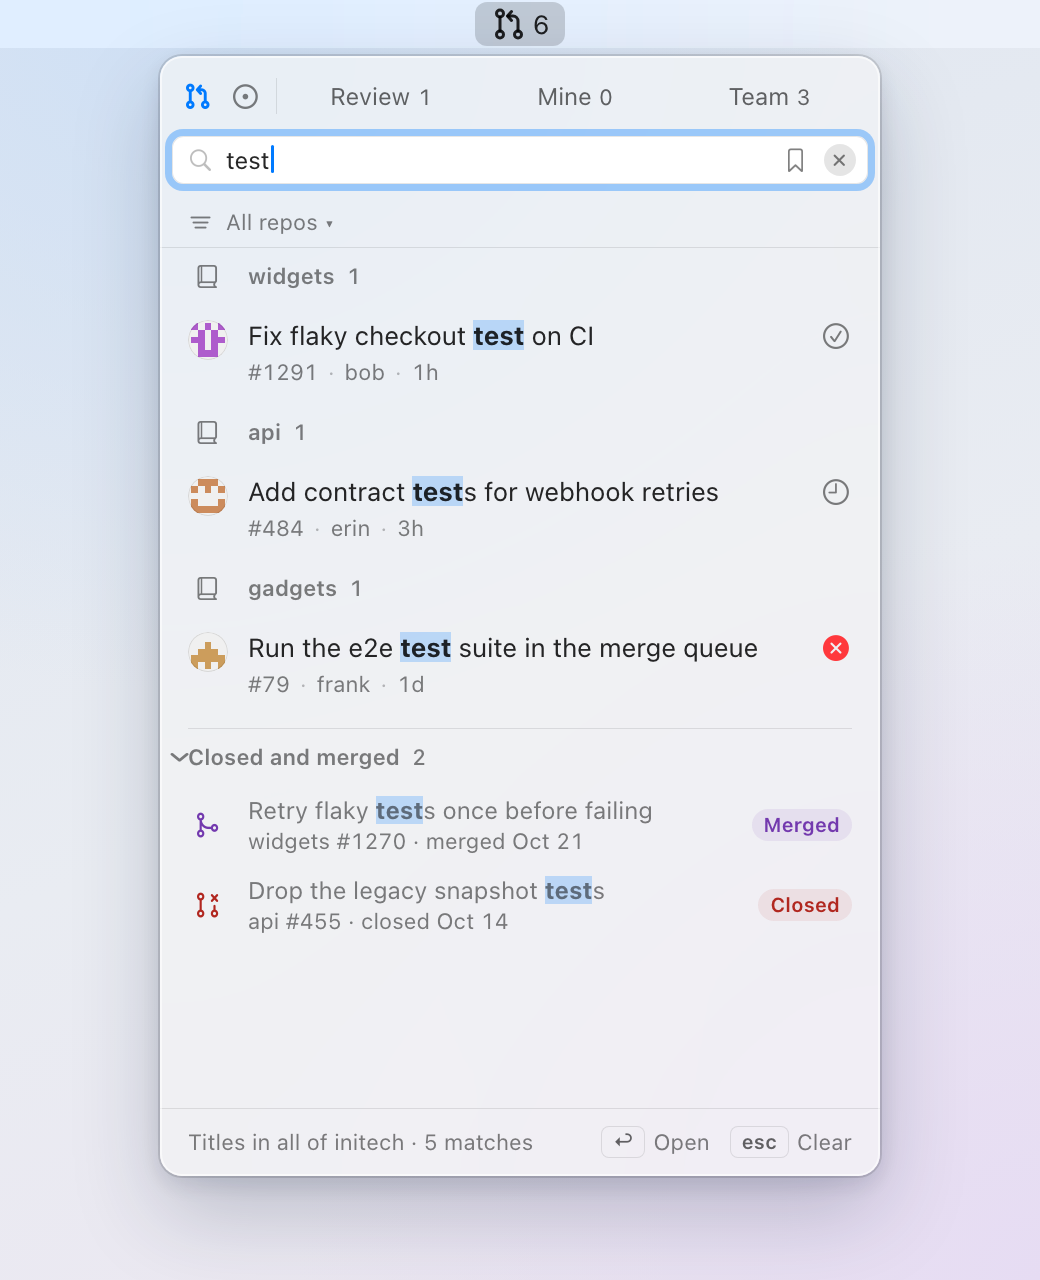
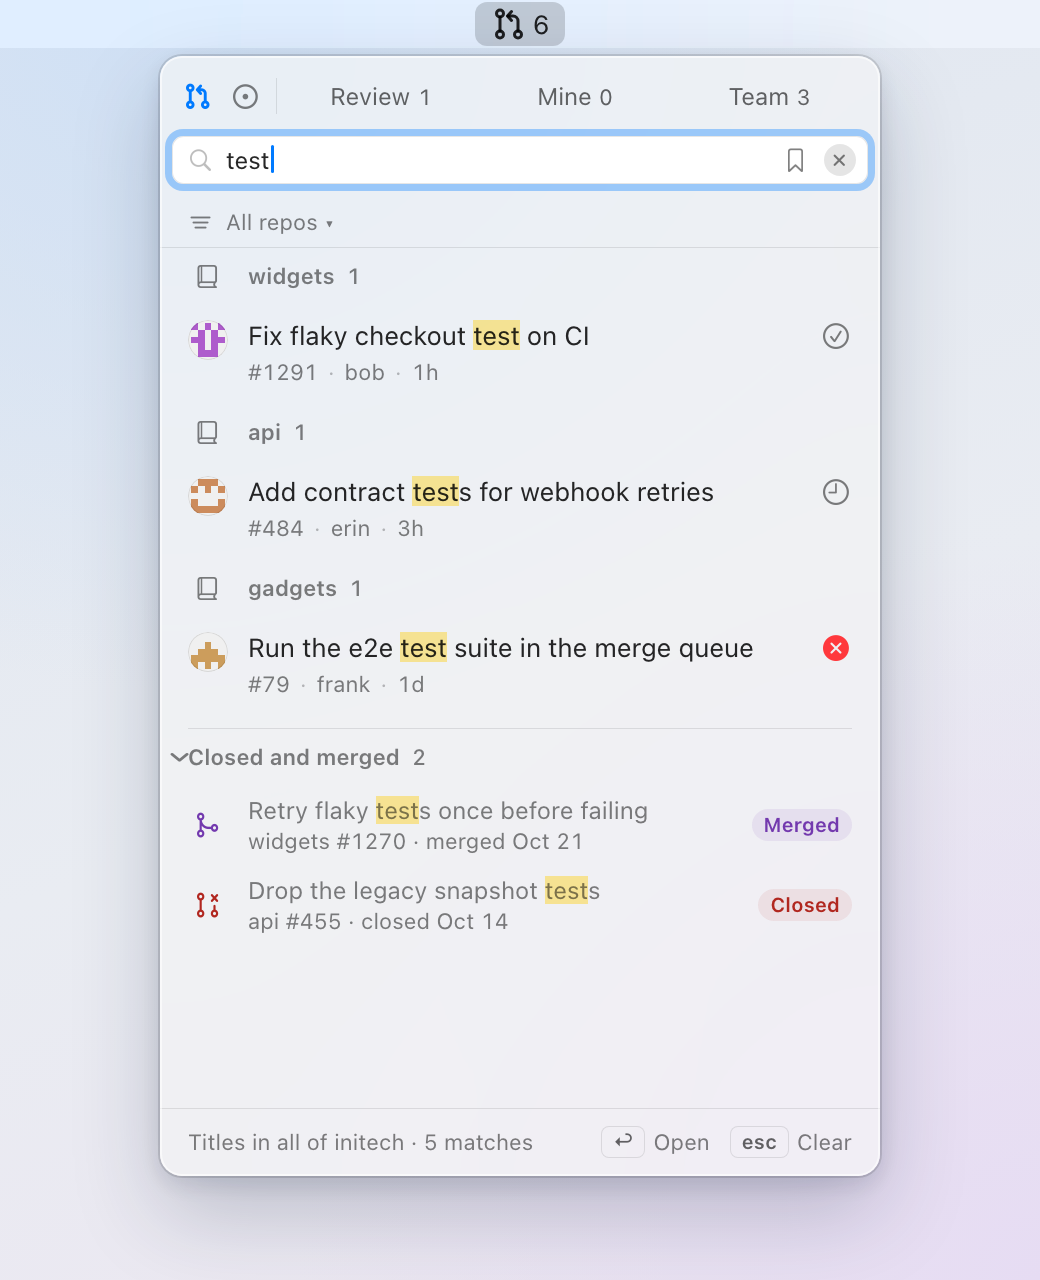
Search matches: a soft yellow highlight, not bold, so titles wrap as in the tab

diff --git a/docs/media/src/popover.css b/docs/media/src/popover.css
@@ -13,7 +13,7 @@
   /* The field's placeholder reads at about secondary strength in the reference. */
   --placeholder: rgba(255, 255, 255, 0.6);
   --accent: #007aff;
-  --match: rgba(0, 122, 255, 0.22);
+  --match: rgba(255, 214, 10, 0.3);
   --red: #ff4245;
   /* Palette */
   --secondary-text: rgba(255, 255, 255, 0.549);
@@ -64,7 +64,7 @@
   --separator: rgba(0, 0, 0, 0.098);
   --placeholder: rgba(0, 0, 0, 0.45);
   --accent: #007aff;
-  --match: rgba(0, 122, 255, 0.22);
+  --match: rgba(255, 204, 0, 0.4);
   --red: #ff383c;
   /* Palette */
   --secondary-text: rgba(0, 0, 0, 0.6);
@@ -429,7 +429,7 @@ body {
 /* ---------- Search (SearchResultsView, CompletionList) ---------- */
 
 .below-header { position: relative; flex: 1 1 auto; min-height: 0; display: flex; flex-direction: column; }
-.row strong, .closed-row strong { font-weight: 700; background: var(--match); }
+.row strong, .closed-row strong { font-weight: inherit; background: var(--match); }
 .caret { display: inline-block; width: 1.5px; height: 14px; margin-left: 1px; vertical-align: -2px; background: var(--accent); border-radius: 1px; }
 .keycap {
   display: inline-flex; align-items: center; justify-content: center; min-width: 18px; height: 16px; padding: 0 6px;

diff --git a/PullBull/Popover/SearchResultsView.swift b/PullBull/Popover/SearchResultsView.swift
@@ -598,14 +598,14 @@ private struct FailureBanner: View {
 }
 
 enum Highlight {
-    /// The title with every query word in bold on a soft accent background.
+    /// The title with every query word on a soft highlight. Not bold: the title keeps the tab's width, so it
+    /// wraps where the tab's does.
     static func title(_ title: String, words: [String]) -> AttributedString {
         var attributed = AttributedString(title)
         for word in words where !word.isEmpty {
             var searchStart = title.startIndex
             while let range = title.range(of: word, options: .caseInsensitive, range: searchStart..<title.endIndex) {
                 if let attributedRange = Range(range, in: attributed) {
-                    attributed[attributedRange].inlinePresentationIntent = .stronglyEmphasized
                     attributed[attributedRange].backgroundColor = Palette.match
                 }
                 searchStart = range.upperBound

diff --git a/PullBull/Style/Palette.swift b/PullBull/Style/Palette.swift
@@ -37,8 +37,9 @@ enum Palette {
     static let strongFill = Color.primary.opacity(0.1)
     static let rowHover = Color.primary.opacity(0.05)
     static let selection = Color.accentColor.opacity(0.15)
-    /// Behind a search match in a title; stronger than `selection` so it still shows on the selected row.
-    static let match = Color.accentColor.opacity(0.22)
+    /// Behind a search match in a title: a soft highlighter yellow, the colour macOS finds text in, kept
+    /// apart from the accent so it reads on the selected row.
+    static let match = dynamic(light: 0xFFCC00, dark: 0xFFD60A, alpha: (0.4, 0.3))
     /// A row chosen to open, for a moment: the system's emphasized selection, with its text colour.
     static let rowFlash = Color(nsColor: .selectedContentBackgroundColor)
     static let rowFlashText = Color(nsColor: .alternateSelectedControlTextColor)

diff --git a/docs/media/src/search.js b/docs/media/src/search.js
@@ -5,7 +5,7 @@
   const P = window.PullBull;
   const { esc } = P;
 
-  /** Highlight.title: every query word in bold. */
+  /** Highlight.title: every query word on a soft highlight, not bold. */
   function highlight(title, words) {
     let html = esc(title);
     for (const w of words) {

diff --git a/docs/manual.md b/docs/manual.md
@@ -137,7 +137,7 @@ A PR with merge conflicts shows a **Conflicts** note on every tab.
 - Results are laid out like the tab you're on, or the one you narrowed to: the same repo, author or Status groups and headers. Merged and closed items follow in **Closed and merged** (issues: **Closed**), open until you fold it for this search. Results span all tabs; click a tab to narrow, or press <kbd>←</kbd> / <kbd>→</kbd> at the field's start / end to narrow to the tab beside the one the results are laid out for (<kbd>←</kbd> from the first tab does nothing). No key goes back to everything; click the narrowed tab again, or **Search everything** in the narrowed empty state
 - The footer says what is searched and how many match, with a spinner while GitHub answers. <kbd>⌥</kbd><kbd>⌘</kbd><kbd>↩</kbd> Ask AI shows there when it fits
 - **Right-click a result:** copy branch (PRs), link or Markdown link · open on GitHub · copy checkout command · open files changed (or changes since my review) · open failing check (when checks failed) · show only this repo · search author. The checkout, files and failing check items are on PRs. Search author replaces the query; show only this repo keeps it and searches that repo
-- Each result looks as it does in that tab: avatars on Review and Team, the review notes and counts the tab shows, assignees on issues. Bold on a soft accent background marks the words that matched, and `· author` (or reviewer, assignee) after the age says why an `@` matched. Merged and closed PRs carry their pill
+- Each result looks as it does in that tab: avatars on Review and Team, the review notes and counts the tab shows, assignees on issues. A soft yellow highlight marks the words that matched, and `· author` (or reviewer, assignee) after the age says why an `@` matched. Merged and closed PRs carry their pill
 - Compact cards (Settings → General) apply to results too, as in the tabs
 - Matches in the other mode show a hint: <kbd>⌘</kbd><kbd>1</kbd> / <kbd>⌘</kbd><kbd>2</kbd>
 - Empty field shows saved searches, the first nine with their ⌃ key, and two lines of token hints: `#` `@` `~` `is:` `status:`, then `updated:` `review:` `repo:` `size:` `-`. <kbd>↓</kbd> to walk them; picking a token types it, and all but `#` and `-` open their list. After `-`, the next token joins it (`-@`, `-size:`), with the mouse or the keyboard
